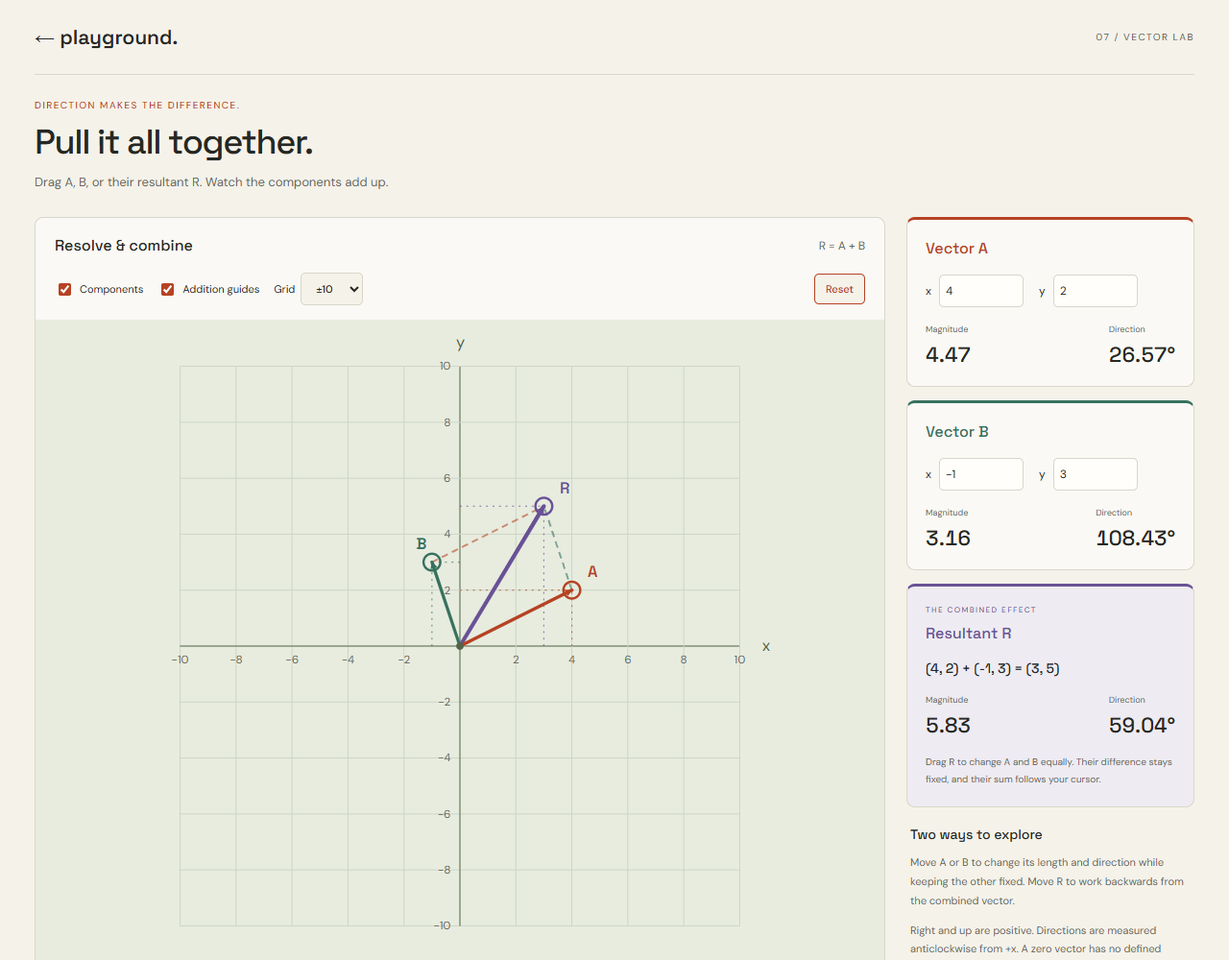
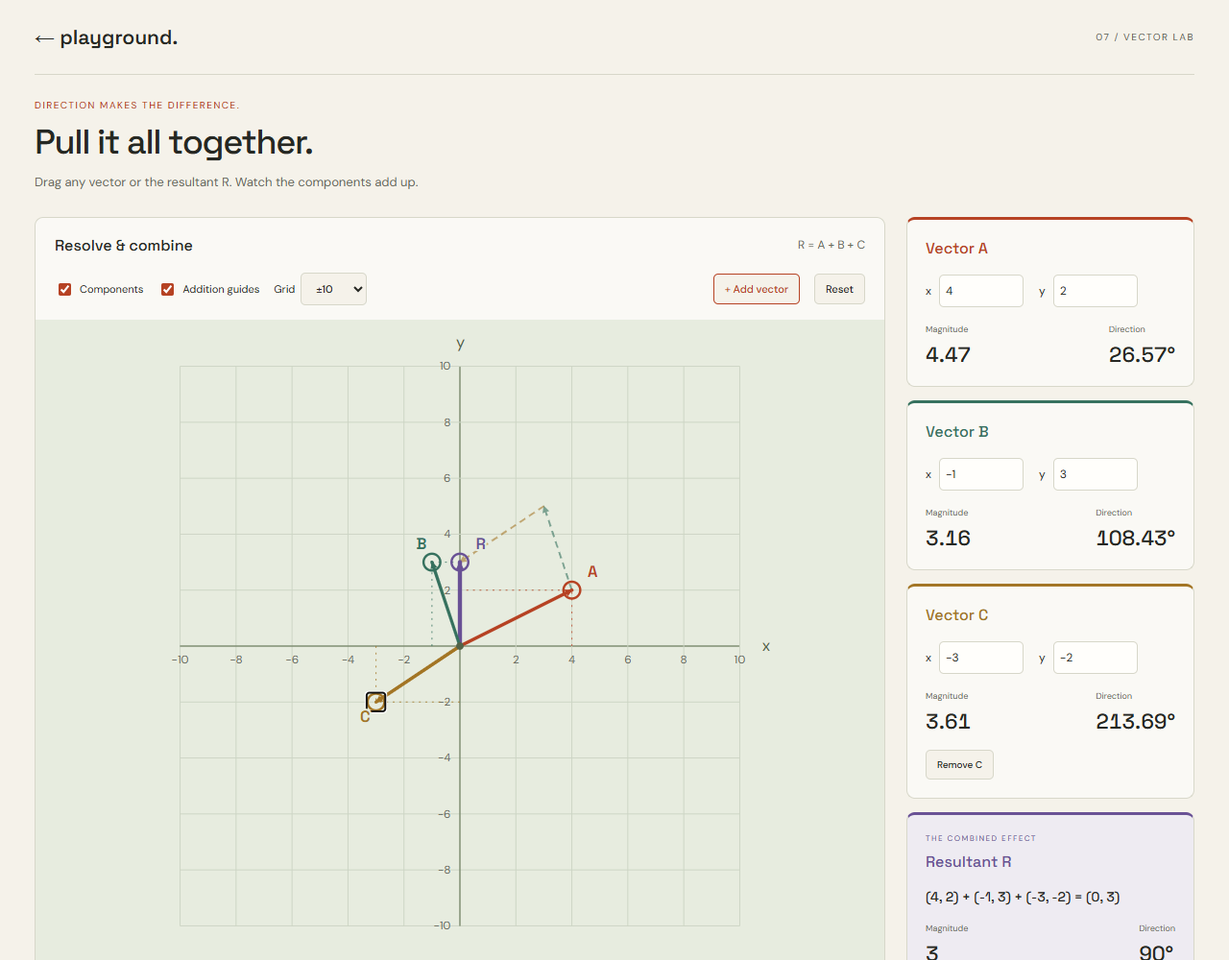
Allow adding vectors and update the resultant across all inputs

diff --git a/vectors/simulation.js b/vectors/simulation.js
@@ -1,25 +1,42 @@
 (()=>{
  'use strict';
- const $=id=>document.getElementById(id),svg=$('workspace'),NS='http://www.w3.org/2000/svg',colours={a:'#b64223',b:'#36715e',r:'#695195'};
- const state={a:{x:4,y:2},b:{x:-1,y:3},range:10};let drag=null;
- const resultant=()=>({x:state.a.x+state.b.x,y:state.a.y+state.b.y}),screen=v=>({x:350+300*v.x/state.range,y:350-300*v.y/state.range});
+ const $=id=>document.getElementById(id),svg=$('workspace'),NS='http://www.w3.org/2000/svg',colours={a:'#b64223',b:'#36715e',r:'#695195',c:'#a37525',d:'#397c91',e:'#b04f72',f:'#66792c',g:'#8b633f',h:'#4a6f9e'};
+ const state={a:{x:4,y:2},b:{x:-1,y:3},range:10,ids:['a','b']};let drag=null;
+ const resultant=()=>state.ids.reduce((sum,id)=>({x:sum.x+state[id].x,y:sum.y+state[id].y}),{x:0,y:0}),screen=v=>({x:350+300*v.x/state.range,y:350-300*v.y/state.range});
  const number=n=>Math.abs(n)<1e-9?'0':Number(n.toFixed(2)).toString(),clamp=(n,min,max)=>Math.min(max,Math.max(min,n));
  function node(tag,attrs={},text){const el=document.createElementNS(NS,tag);for(const [key,value]of Object.entries(attrs))el.setAttribute(key,value);if(text!==undefined)el.textContent=text;return el;}
  function line(parent,from,to,colour){const a=screen(from),b=screen(to);parent.append(node('line',{x1:a.x,y1:a.y,x2:b.x,y2:b.y,stroke:colour}));}
  function grid(){const g=$('grid');g.replaceChildren();const step=state.range/5;for(let n=-5;n<=5;n++){const v=n*step,p=screen({x:v,y:v});g.append(node('line',{x1:p.x,x2:p.x,y1:50,y2:650,stroke:n?'#cdd5c5':'#7c8c70','stroke-width':n?1:1.5}),node('line',{x1:50,x2:650,y1:p.y,y2:p.y,stroke:n?'#cdd5c5':'#7c8c70','stroke-width':n?1:1.5}));if(n)g.append(node('text',{x:p.x,y:369,'text-anchor':'middle',fill:'#686a60','font-size':12},number(v)),node('text',{x:340,y:p.y+4,'text-anchor':'end',fill:'#686a60','font-size':12},number(v)));}g.append(node('text',{x:674,y:355,fill:'#526347','font-size':17},'x'),node('text',{x:346,y:30,fill:'#526347','font-size':17},'y'));}
- function setVector(id,target){const limit=state.range*.94,r=resultant();for(const axis of ['x','y']){if(id==='r'){const delta=clamp(target[axis]-r[axis],Math.max(-limit-r[axis],2*(-limit-state.a[axis]),2*(-limit-state.b[axis])),Math.min(limit-r[axis],2*(limit-state.a[axis]),2*(limit-state.b[axis])));state.a[axis]+=delta/2;state.b[axis]+=delta/2;}else{const other=state[id==='a'?'b':'a'][axis];state[id][axis]=clamp(target[axis],Math.max(-limit,-limit-other),Math.min(limit,limit-other));}}render();}
- function render(){const r=resultant();for(const [id,v]of Object.entries({a:state.a,b:state.b,r})){const group=$('arrow-'+id),p=screen(v),mag=Math.hypot(v.x,v.y),angle=mag<1e-9?null:(Math.atan2(v.y,v.x)*180/Math.PI+360)%360;for(const el of group.querySelectorAll('line')){el.setAttribute('x1',350);el.setAttribute('y1',350);el.setAttribute('x2',p.x);el.setAttribute('y2',p.y);}group.querySelector('.shaft').style.display=mag<1e-9?'none':'';const handle=$('handle-'+id);handle.setAttribute('cx',p.x);handle.setAttribute('cy',p.y);handle.setAttribute('aria-label',`${id.toUpperCase()} vector: x ${number(v.x)}, y ${number(v.y)}. Use arrow keys to move.`);const label=group.querySelector('.label');label.setAttribute('x',p.x+(v.x<0?-17:17));label.setAttribute('y',p.y+(v.y<0?21:-14));$(''+id+'-magnitude').textContent=number(mag);$(id+'-angle').textContent=angle===null?'Undefined':number(angle)+'°';if(id!=='r')for(const axis of ['x','y']){const input=$(id+'-'+axis);if(document.activeElement!==input)input.value=number(v[axis]);input.min=-state.range*.94;input.max=state.range*.94;}}
-  $('sum').textContent=`(${number(state.a.x)}, ${number(state.a.y)}) + (${number(state.b.x)}, ${number(state.b.y)}) = (${number(r.x)}, ${number(r.y)})`;
-  const guides=$('addition-guides');guides.replaceChildren();guides.style.display=$('guides').checked?'':'none';line(guides,state.a,r,colours.b);line(guides,state.b,r,colours.a);
-  const components=$('component-lines');components.replaceChildren();components.style.display=$('components').checked?'':'none';for(const [id,v]of Object.entries({a:state.a,b:state.b,r})){line(components,{x:v.x,y:0},v,colours[id]);line(components,{x:0,y:v.y},v,colours[id]);}
+ function setVector(id,target){const limit=state.range*.94,r=resultant(),count=state.ids.length;for(const axis of ['x','y']){if(id==='r'){const delta=clamp(target[axis]-r[axis],Math.max(-limit-r[axis],...state.ids.map(key=>count*(-limit-state[key][axis]))),Math.min(limit-r[axis],...state.ids.map(key=>count*(limit-state[key][axis]))));for(const key of state.ids)state[key][axis]+=delta/count;}else{const other=r[axis]-state[id][axis];state[id][axis]=clamp(target[axis],Math.max(-limit,-limit-other),Math.min(limit,limit-other));}}render();}
+ function render(){const r=resultant();for(const [id,v]of [...state.ids.map(id=>[id,state[id]]),['r',r]]){const group=$('arrow-'+id),p=screen(v),mag=Math.hypot(v.x,v.y),angle=mag<1e-9?null:(Math.atan2(v.y,v.x)*180/Math.PI+360)%360;for(const el of group.querySelectorAll('line')){el.setAttribute('x1',350);el.setAttribute('y1',350);el.setAttribute('x2',p.x);el.setAttribute('y2',p.y);}group.querySelector('.shaft').style.display=mag<1e-9?'none':'';const handle=$('handle-'+id);handle.setAttribute('cx',p.x);handle.setAttribute('cy',p.y);handle.setAttribute('aria-label',`${id.toUpperCase()} vector: x ${number(v.x)}, y ${number(v.y)}. Use arrow keys to move.`);const label=group.querySelector('.label');label.setAttribute('x',p.x+(v.x<0?-17:17));label.setAttribute('y',p.y+(v.y<0?21:-14));$(''+id+'-magnitude').textContent=number(mag);$(id+'-angle').textContent=angle===null?'Undefined':number(angle)+'°';if(id!=='r')for(const axis of ['x','y']){const input=$(id+'-'+axis);if(document.activeElement!==input)input.value=number(v[axis]);input.min=-state.range*.94;input.max=state.range*.94;}}
+  $('sum').textContent=state.ids.map(id=>'('+number(state[id].x)+', '+number(state[id].y)+')').join(' + ')+' = ('+number(r.x)+', '+number(r.y)+')';
+  $('vector-equation').textContent='R = '+state.ids.map(id=>id.toUpperCase()).join(' + ');$('add-vector').disabled=state.ids.length>=8;
+  const guides=$('addition-guides');guides.replaceChildren();guides.style.display=$('guides').checked?'':'none';if(state.ids.length===2){line(guides,state.a,r,colours.b);line(guides,state.b,r,colours.a);}else{let tail={x:0,y:0};for(const id of state.ids){const tip={x:tail.x+state[id].x,y:tail.y+state[id].y};const from=screen(tail),to=screen(tip);guides.append(node('line',{x1:from.x,y1:from.y,x2:to.x,y2:to.y,stroke:colours[id],'marker-end':'url(#head-'+id+')'}));tail=tip;}}
+  $('addition-note').textContent=state.ids.length===2?'Dashed copies of A and B complete the parallelogram. Dotted lines resolve each vector into horizontal and vertical components.':'Dashed arrows add the vectors head-to-tail. Dotted lines resolve each vector into horizontal and vertical components.';
+  $('inverse-note').textContent='Drag R to share its change equally between all '+state.ids.length+' vectors. Their pairwise differences stay fixed.';
+  const components=$('component-lines');components.replaceChildren();components.style.display=$('components').checked?'':'none';for(const [id,v]of [...state.ids.map(id=>[id,state[id]]),['r',r]]){line(components,{x:v.x,y:0},v,colours[id]);line(components,{x:0,y:v.y},v,colours[id]);}
  }
  function point(e){const p=new DOMPoint(e.clientX,e.clientY).matrixTransform(svg.getScreenCTM().inverse());return {x:(p.x-350)*state.range/300,y:(350-p.y)*state.range/300};}
  function endDrag(e){if(!drag||e&&e.pointerId!==drag.pointerId)return;const pointerId=drag.pointerId;$('arrow-'+drag.id).classList.remove('dragging');drag=null;if(svg.hasPointerCapture(pointerId))svg.releasePointerCapture(pointerId);}
- for(const id of ['a','b','r']){$('arrow-'+id).addEventListener('pointerdown',e=>{if(e.button!==0||drag)return;e.preventDefault();const p=point(e),v=id==='r'?resultant():state[id];drag={id,pointerId:e.pointerId,offset:{x:v.x-p.x,y:v.y-p.y}};$('arrow-'+id).classList.add('dragging');svg.setPointerCapture(e.pointerId);$('handle-'+id).focus({preventScroll:true});});$('handle-'+id).addEventListener('keydown',e=>{const directions={ArrowRight:[1,0],ArrowLeft:[-1,0],ArrowUp:[0,1],ArrowDown:[0,-1]};if(!directions[e.key])return;e.preventDefault();const v=id==='r'?resultant():state[id],d=directions[e.key],step=e.shiftKey?1:.25;setVector(id,{x:v.x+d[0]*step,y:v.y+d[1]*step});});}
+ function bindVector(id){$('arrow-'+id).addEventListener('pointerdown',e=>{if(e.button!==0||drag)return;e.preventDefault();const p=point(e),v=id==='r'?resultant():state[id];drag={id,pointerId:e.pointerId,offset:{x:v.x-p.x,y:v.y-p.y}};$('arrow-'+id).classList.add('dragging');svg.setPointerCapture(e.pointerId);$('handle-'+id).focus({preventScroll:true});});$('handle-'+id).addEventListener('keydown',e=>{const directions={ArrowRight:[1,0],ArrowLeft:[-1,0],ArrowUp:[0,1],ArrowDown:[0,-1]};if(!directions[e.key])return;e.preventDefault();const v=id==='r'?resultant():state[id],d=directions[e.key],step=e.shiftKey?1:.25;setVector(id,{x:v.x+d[0]*step,y:v.y+d[1]*step});});}
  svg.addEventListener('pointermove',e=>{if(!drag||e.pointerId!==drag.pointerId)return;const p=point(e);setVector(drag.id,{x:p.x+drag.offset.x,y:p.y+drag.offset.y});});svg.addEventListener('pointerup',endDrag);svg.addEventListener('pointercancel',endDrag);svg.addEventListener('lostpointercapture',endDrag);
- for(const id of ['a','b'])for(const axis of ['x','y'])$(id+'-'+axis).addEventListener('change',e=>{const value=e.target.valueAsNumber;if(Number.isFinite(value))setVector(id,{...state[id],[axis]:value});e.target.value=number(state[id][axis]);});
- $('range').addEventListener('change',e=>{endDrag();const requested=Number(e.target.value),r=resultant(),max=Math.max(...['a','b'].flatMap(id=>[Math.abs(state[id].x),Math.abs(state[id].y)]),Math.abs(r.x),Math.abs(r.y));state.range=[10,20,50].find(range=>range>=requested&&max<=range*.94)||50;e.target.value=state.range;grid();render();});
+ function bindInputs(id){for(const axis of ['x','y'])$(id+'-'+axis).addEventListener('change',e=>{const value=e.target.valueAsNumber;if(Number.isFinite(value))setVector(id,{...state[id],[axis]:value});e.target.value=number(state[id][axis]);});}
+ function fitRange(requested){const r=resultant(),max=Math.max(...state.ids.flatMap(id=>[Math.abs(state[id].x),Math.abs(state[id].y)]),Math.abs(r.x),Math.abs(r.y)),required=Math.max(requested,max/.94);state.range=[10,20,50].find(range=>range>=required)||Math.ceil(required/10)*10;const select=$('range');if(![...select.options].some(option=>Number(option.value)===state.range)){const option=document.createElement('option');option.value=state.range;option.textContent='±'+state.range;select.append(option);}select.value=state.range;grid();}
+ $('range').addEventListener('change',e=>{endDrag();fitRange(Number(e.target.value));render();});
  for(const id of ['components','guides'])$(id).addEventListener('change',render);
- $('reset').addEventListener('click',()=>{endDrag();state.a={x:4,y:2};state.b={x:-1,y:3};state.range=10;$('range').value='10';grid();render();});
+ $('reset').addEventListener('click',()=>{endDrag();for(const id of [...state.ids])if(id!=='a'&&id!=='b')removeVector(id);state.a={x:4,y:2};state.b={x:-1,y:3};state.range=10;$('range').value='10';grid();render();});
+ function addVector(){if(state.ids.length>=8)return;endDrag();const id=[...'cdefgh'].find(id=>!state.ids.includes(id)),label=id.toUpperCase();state.ids.push(id);state[id]={x:0,y:0};
+  const marker=$('head-a').cloneNode(true);marker.id='head-'+id;marker.querySelector('path').setAttribute('fill',colours[id]);svg.querySelector('defs').append(marker);
+  const arrow=$('arrow-a').cloneNode(true);arrow.id='arrow-'+id;arrow.className.baseVal='vector '+id;arrow.style.setProperty('--vector',colours[id]);arrow.querySelector('.shaft').setAttribute('marker-end','url(#head-'+id+')');arrow.querySelector('.handle').id='handle-'+id;arrow.querySelector('.label').textContent=label;svg.insertBefore(arrow,$('arrow-a'));
+  const card=document.querySelector('.vector-card.a').cloneNode(true);card.className='vector-card '+id;card.id='card-'+id;card.style.setProperty('--vector',colours[id]);card.querySelector('h2').textContent='Vector '+label;for(const el of card.querySelectorAll('[id]'))el.id=el.id.replace(/^a-/,id+'-');
+  const remove=document.createElement('button');remove.type='button';remove.className='remove-vector';remove.textContent='Remove '+label;remove.addEventListener('click',()=>removeVector(id));card.append(remove);document.querySelector('.resultant').before(card);
+  const legend=document.createElement('span');legend.id='legend-'+id;legend.textContent='● '+label;legend.style.color=colours[id];$('vector-legend').querySelector('.r').before(legend);bindVector(id);bindInputs(id);
+  const defaults={c:{x:-3,y:-2},d:{x:2,y:-3},e:{x:3,y:-1},f:{x:-2,y:1},g:{x:1,y:-3},h:{x:-1,y:-2}};setVector(id,defaults[id]);$('handle-'+id).focus({preventScroll:true});
+ }
+ function removeVector(id){endDrag();if(id==='a'||id==='b'||!state.ids.includes(id))return;const focused=document.activeElement?.closest('#card-'+id)||document.activeElement===$('handle-'+id);state.ids=state.ids.filter(key=>key!==id);delete state[id];for(const prefix of ['arrow-','head-','card-','legend-'])$(prefix+id).remove();
+  fitRange(state.range);render();if(focused)$('add-vector').focus({preventScroll:true});
+ }
+ $('add-vector').addEventListener('click',addVector);
+ for(const id of ['a','b','r'])bindVector(id);for(const id of ['a','b'])bindInputs(id);
  grid();render();window.vectorLab={state,resultant,screen};
 })();

diff --git a/vectors/index.html b/vectors/index.html
@@ -1,20 +1,20 @@
 <!doctype html>
-<html lang="en"><head><meta charset="utf-8"><meta name="viewport" content="width=device-width,initial-scale=1"><title>Vector lab · Playground</title><meta name="description" content="Drag two vectors or their resultant and explore vector addition and resolution in real time."><link rel="icon" href="../favicon.svg"><link rel="stylesheet" href="style.css"></head>
+<html lang="en"><head><meta charset="utf-8"><meta name="viewport" content="width=device-width,initial-scale=1"><title>Vector lab · Playground</title><meta name="description" content="Add and drag vectors or their resultant and explore vector addition and resolution in real time."><link rel="icon" href="../favicon.svg"><link rel="stylesheet" href="style.css?v=2"></head>
 <body><main><header><a href="../">← playground.</a><span>07 / VECTOR LAB</span></header>
-<section class="heading"><p class="eyebrow">DIRECTION MAKES THE DIFFERENCE.</p><h1>Pull it all together.</h1><p>Drag A, B, or their resultant R. Watch the components add up.</p></section>
-<div class="workspace"><section class="board"><div class="panel-heading"><h2>Resolve &amp; combine</h2><span>R = A + B</span></div>
-<div class="toolbar"><label><input id="components" type="checkbox" checked> Components</label><label><input id="guides" type="checkbox" checked> Addition guides</label><label>Grid <select id="range" aria-label="Grid range"><option value="10">±10</option><option value="20">±20</option><option value="50">±50</option></select></label><button id="reset" type="button">Reset</button></div>
-<svg id="workspace" viewBox="0 0 700 700" role="group" aria-labelledby="chart-title chart-description"><title id="chart-title">Interactive vector workspace</title><desc id="chart-description">Two vectors A and B share an origin. R is their sum. Drag an arrow or its endpoint. Focus an endpoint and use arrow keys, or edit components beside the graph. Dragging R changes A and B equally.</desc>
+<section class="heading"><p class="eyebrow">DIRECTION MAKES THE DIFFERENCE.</p><h1>Pull it all together.</h1><p>Drag any vector or the resultant R. Watch the components add up.</p></section>
+<div class="workspace"><section class="board"><div class="panel-heading"><h2>Resolve &amp; combine</h2><span id="vector-equation">R = A + B</span></div>
+<div class="toolbar"><label><input id="components" type="checkbox" checked> Components</label><label><input id="guides" type="checkbox" checked> Addition guides</label><label>Grid <select id="range" aria-label="Grid range"><option value="10">±10</option><option value="20">±20</option><option value="50">±50</option></select></label><button id="add-vector" type="button" title="Add up to eight vectors">+ Add vector</button><button id="reset" type="button">Reset</button></div>
+<svg id="workspace" viewBox="0 0 700 700" role="group" aria-labelledby="chart-title chart-description"><title id="chart-title">Interactive vector workspace</title><desc id="chart-description">All vectors share an origin. R is their sum. Add up to eight vectors. Drag an arrow or its endpoint. Focus an endpoint and use arrow keys, or edit components beside the graph. Dragging R changes all vectors equally.</desc>
 <defs><marker id="head-a" viewBox="0 0 12 12" refX="10" refY="6" markerWidth="9" markerHeight="9" orient="auto-start-reverse" markerUnits="userSpaceOnUse"><path d="M1 1L11 6L1 11Z" fill="#b64223"/></marker><marker id="head-b" viewBox="0 0 12 12" refX="10" refY="6" markerWidth="9" markerHeight="9" orient="auto-start-reverse" markerUnits="userSpaceOnUse"><path d="M1 1L11 6L1 11Z" fill="#36715e"/></marker><marker id="head-r" viewBox="0 0 12 12" refX="10" refY="6" markerWidth="11" markerHeight="11" orient="auto-start-reverse" markerUnits="userSpaceOnUse"><path d="M1 1L11 6L1 11Z" fill="#695195"/></marker></defs>
-<g id="grid"></g><g id="addition-guides" pointer-events="none"></g><g id="component-lines" pointer-events="none"></g>
+<defs><clipPath id="grid-clip"><rect x="50" y="50" width="600" height="600"/></clipPath></defs><g id="grid"></g><g id="addition-guides" pointer-events="none" clip-path="url(#grid-clip)"></g><g id="component-lines" pointer-events="none"></g>
 <g id="arrow-r" class="vector r"><line class="shaft" marker-end="url(#head-r)"/><line class="hit"/><circle id="handle-r" class="handle" r="9" tabindex="0" role="button"/><text class="label" pointer-events="none">R</text></g>
 <g id="arrow-a" class="vector a"><line class="shaft" marker-end="url(#head-a)"/><line class="hit"/><circle id="handle-a" class="handle" r="9" tabindex="0" role="button"/><text class="label" pointer-events="none">A</text></g>
 <g id="arrow-b" class="vector b"><line class="shaft" marker-end="url(#head-b)"/><line class="hit"/><circle id="handle-b" class="handle" r="9" tabindex="0" role="button"/><text class="label" pointer-events="none">B</text></g>
 <circle cx="350" cy="350" r="4" fill="#526347" pointer-events="none"/></svg>
-<div class="legend"><span class="a">● A</span><span class="b">● B</span><span class="r">● R · resultant</span><span>Drag an arrow or endpoint</span></div><p class="board-note">Dashed copies of A and B complete the parallelogram. Dotted lines resolve each vector into horizontal and vertical components.</p></section>
+<div class="legend" id="vector-legend"><span class="a">● A</span><span class="b">● B</span><span class="r">● R · resultant</span><span>Drag an arrow or endpoint</span></div><p class="board-note" id="addition-note">Dashed copies of A and B complete the parallelogram. Dotted lines resolve each vector into horizontal and vertical components.</p></section>
 <aside><section class="vector-card a"><h2>Vector A</h2><div class="inputs"><label>x <input id="a-x" type="number" step="0.25" value="4"></label><label>y <input id="a-y" type="number" step="0.25" value="2"></label></div><div class="metrics"><span>Magnitude <strong id="a-magnitude"></strong></span><span>Direction <strong id="a-angle"></strong></span></div></section>
 <section class="vector-card b"><h2>Vector B</h2><div class="inputs"><label>x <input id="b-x" type="number" step="0.25" value="-1"></label><label>y <input id="b-y" type="number" step="0.25" value="3"></label></div><div class="metrics"><span>Magnitude <strong id="b-magnitude"></strong></span><span>Direction <strong id="b-angle"></strong></span></div></section>
-<section class="vector-card r resultant"><p class="eyebrow">THE COMBINED EFFECT</p><h2>Resultant R</h2><p class="equation" id="sum"></p><div class="metrics"><span>Magnitude <strong id="r-magnitude"></strong></span><span>Direction <strong id="r-angle"></strong></span></div><p class="small">Drag R to change A and B equally. Their difference stays fixed, and their sum follows your cursor.</p></section>
-<section class="reading"><h2>Two ways to explore</h2><p>Move A or B to change its length and direction while keeping the other fixed. Move R to work backwards from the combined vector.</p><p>Right and up are positive. Directions are measured anticlockwise from +x. A zero vector has no defined direction.</p><p>Values use arbitrary units. Choose a larger grid for longer vectors. Focus an endpoint and use arrow keys; hold Shift for larger steps.</p></section></aside></div>
-<footer><p><strong>Components add independently.</strong> Rₓ = Aₓ + Bₓ and Rᵧ = Aᵧ + Bᵧ. The resultant’s magnitude is √(Rₓ² + Rᵧ²).</p><p>Dragging R shares its change equally: A′ = A + ΔR/2 and B′ = B + ΔR/2. This is one of many pairs of vectors with the same resultant. All endpoints stay inside the selected grid.</p></footer>
-</main><script src="simulation.js"></script></body></html>
+<section class="vector-card r resultant"><p class="eyebrow">THE COMBINED EFFECT</p><h2>Resultant R</h2><p class="equation" id="sum"></p><div class="metrics"><span>Magnitude <strong id="r-magnitude"></strong></span><span>Direction <strong id="r-angle"></strong></span></div><p class="small" id="inverse-note">Drag R to change A and B equally. Their difference stays fixed, and their sum follows your cursor.</p></section>
+<section class="reading"><h2>Two ways to explore</h2><p>Move any input vector to change its length and direction while keeping the others fixed. Move R to work backwards from the combined vector.</p><p>Right and up are positive. Directions are measured anticlockwise from +x. A zero vector has no defined direction.</p><p>Values use arbitrary units. Choose a larger grid for longer vectors. Focus an endpoint and use arrow keys; hold Shift for larger steps.</p></section></aside></div>
+<footer><p><strong>Components add independently.</strong> Add all horizontal components to find Rₓ and all vertical components to find Rᵧ. The resultant’s magnitude is √(Rₓ² + Rᵧ²).</p><p>With n vectors, dragging R shares its change equally: each vector changes by ΔR/n. Many combinations can give the same resultant. All endpoints stay inside the selected grid. Add up to eight vectors; remove extras from their cards.</p></footer>
+</main><script src="simulation.js?v=2"></script></body></html>

diff --git a/vectors/style.css b/vectors/style.css
@@ -2,3 +2,5 @@
 :root{color-scheme:light;--paper:#f5f2ea;--ink:#262823;--muted:#686a60;--line:#d7d7c9;--orange:#b64223}*{box-sizing:border-box}body{margin:0;background:var(--paper);color:var(--ink);font-family:'DM Sans',sans-serif}main{max-width:1360px;margin:auto;padding:0 36px}header{height:78px;border-bottom:1px solid var(--line);display:flex;justify-content:space-between;align-items:center;gap:12px}header a{font:600 21px 'Space Grotesk',sans-serif;color:inherit;text-decoration:none}header>span,.eyebrow{font-size:10px;letter-spacing:1.5px;color:var(--muted)}.heading{padding:25px 0}.eyebrow{color:var(--orange);margin:0 0 9px}h1{font:500 36px 'Space Grotesk',sans-serif;letter-spacing:-1.3px;margin:0 0 8px}.heading>p:last-child{font-size:13px;color:var(--muted);margin:0;line-height:1.7}.workspace{display:grid;grid-template-columns:minmax(0,1fr) 300px;gap:22px;align-items:start}h2{font:500 16px 'Space Grotesk',sans-serif;margin:0}.board,.vector-card{background:#faf9f5;border:1px solid var(--line);border-radius:9px;overflow:hidden}.panel-heading{display:flex;justify-content:space-between;padding:18px 20px;align-items:center}.panel-heading span{font-size:12px;color:var(--muted)}.toolbar{display:flex;gap:15px;align-items:center;flex-wrap:wrap;padding:0 20px 15px;font-size:11px}.toolbar label{display:flex;align-items:center;gap:6px}input[type=checkbox]{accent-color:var(--orange)}button,select{font:500 11px 'DM Sans',sans-serif;padding:8px 11px;border:1px solid var(--line);border-radius:5px;background:var(--paper);color:var(--ink)}button{cursor:pointer;margin-left:auto}button:hover{border-color:var(--orange);color:var(--orange)}#workspace{display:block;width:100%;max-height:680px;background:#e7ecdf;font-family:'DM Sans',sans-serif;touch-action:none;user-select:none}.a{--vector:#b64223}.b{--vector:#36715e}.r{--vector:#695195}.vector{cursor:grab}.vector.dragging{cursor:grabbing}.shaft{stroke:var(--vector);stroke-width:3.5;stroke-linecap:round}.r .shaft{stroke-width:4.5}.hit{stroke:transparent;stroke-width:22;pointer-events:stroke}.handle{fill:var(--paper);stroke:var(--vector);stroke-width:2.5;cursor:grab}.handle:focus-visible{outline:none;stroke-width:5}.label{fill:var(--vector);font:600 17px 'Space Grotesk',sans-serif;paint-order:stroke;stroke:#e7ecdf;stroke-width:4px;stroke-linejoin:round}#component-lines line{stroke-width:1.2;stroke-dasharray:2 5;opacity:.7}#addition-guides line{stroke-width:2;stroke-dasharray:7 5;opacity:.6}.legend{display:flex;align-items:center;gap:20px;padding:15px 20px;font-size:11px;flex-wrap:wrap}.legend>.a,.legend>.b,.legend>.r{color:var(--vector)}.legend>span:last-child{margin-left:auto;font-size:10px;color:var(--muted)}.board-note{margin:0;padding:0 20px 17px;font-size:10px;color:var(--muted);line-height:1.7}.vector-card{padding:19px;margin-bottom:14px;border-top:3px solid var(--vector)}.vector-card h2{color:var(--vector)}.inputs{display:flex;gap:16px;margin:17px 0}.inputs label{font-size:12px;display:flex;gap:8px;align-items:center}.inputs input{width:88px;padding:8px 6px;font:inherit;color:var(--ink);border:1px solid var(--line);border-radius:5px;background:#fffefb;min-width:0}.metrics{display:flex;justify-content:space-between;gap:10px}.metrics span{font-size:9px;color:var(--muted)}.metrics strong{display:block;font:500 22px 'Space Grotesk',sans-serif;color:var(--ink);margin-top:6px;font-variant-numeric:tabular-nums}.resultant{background:#eeebf2}.resultant .eyebrow{font-size:8px;color:var(--vector)}.equation{font:500 14px 'Space Grotesk',sans-serif;line-height:1.8;overflow-wrap:anywhere}.small{font-size:10px;line-height:1.8;color:var(--muted);margin:16px 0 0}.reading{padding:5px 4px}.reading h2{font-size:14px}.reading p{font-size:11px;line-height:1.8;color:var(--muted)}footer{border-top:1px solid var(--line);margin-top:24px;padding:12px 0 24px;display:grid;grid-template-columns:1fr 1fr;gap:28px;font-size:10px;line-height:1.8;color:var(--muted)}footer strong{color:var(--ink)}a:focus-visible,input:focus-visible,select:focus-visible,button:focus-visible{outline:3px solid var(--orange);outline-offset:3px}@media(max-width:900px){main{padding:0 22px}.workspace{grid-template-columns:1fr}aside{display:grid;grid-template-columns:1fr 1fr;gap:14px}.vector-card{margin:0}.inputs input{width:78px}.reading{padding:10px}.toolbar button{margin-left:0}}@media(max-width:560px){main{padding:0 14px}header{height:65px}header>span{font-size:8px;letter-spacing:1px}h1{font-size:30px}.heading{padding:22px 0}.panel-heading{padding:16px 12px}.toolbar{padding:0 12px 14px;gap:10px}.legend{gap:12px;padding:14px 12px}.legend>span:last-child{width:100%;margin:0}.board-note{padding:0 12px 14px}aside{display:block}.vector-card{margin-bottom:14px}.inputs input{width:100px}.reading{padding:8px 3px}footer{grid-template-columns:1fr;gap:0}}
 
 .handle{fill:transparent}@media(max-width:560px){#grid text{font-size:20px}.vector .label{font-size:24px}.vector .hit{stroke-width:36px}}
+
+.toolbar #add-vector{margin-left:auto}.toolbar #reset{margin-left:0}button:disabled{opacity:.45;cursor:default}.remove-vector{display:block;margin:16px 0 0;font-size:10px}.panel-heading>span{max-width:65%;text-align:right;line-height:1.7;overflow-wrap:anywhere}@media(max-width:560px){.toolbar #add-vector{margin-left:0}}

diff --git a/index.html b/index.html
@@ -40,8 +40,8 @@
           <div class="project-info"><div class="tags"><span>ASTRONOMY</span><span>INTERACTIVE DIAGRAM</span></div><h3 id="stellar-title">A map of the stars.</h3><p>Explore named stars and the ESO spectral library on an H–R diagram. Discover how temperature, luminosity, and stellar size fit together.</p><span class="project-link">Explore the stellar atlas <span aria-hidden="true">↗</span></span></div>
         </a>
         <a class="project vectors" href="./vectors/" aria-labelledby="vectors-title">
-          <div class="preview"><img src="./assets/vectors.png" alt="Two draggable vectors and their resultant on a coordinate grid" width="1280" height="1000"><span class="preview-label">07 / VECTOR LAB</span><span class="open" aria-hidden="true">↗</span></div>
-          <div class="project-info"><div class="tags"><span>PHYSICS</span><span>INTERACTIVE WORKSPACE</span></div><h3 id="vectors-title">Pull it all together.</h3><p>Drag two vectors or their resultant. Resolve their components and watch the combined effect change in real time.</p><span class="project-link">Explore the vectors <span aria-hidden="true">↗</span></span></div>
+          <div class="preview"><img src="./assets/vectors.png" alt="Draggable vectors and their resultant on a coordinate grid" width="1280" height="1000"><span class="preview-label">07 / VECTOR LAB</span><span class="open" aria-hidden="true">↗</span></div>
+          <div class="project-info"><div class="tags"><span>PHYSICS</span><span>INTERACTIVE WORKSPACE</span></div><h3 id="vectors-title">Pull it all together.</h3><p>Add and drag vectors or their resultant. Resolve their components and watch the combined effect change in real time.</p><span class="project-link">Explore the vectors <span aria-hidden="true">↗</span></span></div>
         </a>
       </div>
     </section>

diff --git a/README.md b/README.md
@@ -4,7 +4,7 @@ A small, static home for experiments and projects. Includes the electron diffrac
 
 ## Vector Lab
 
-Open `vectors/`. Drag either vector A or B to change it while holding the other fixed. Drag resultant R to change A and B by half of R's change each, preserving their difference and enforcing R = A + B. All arrows share a common origin. Component projections and a parallelogram show resolution and addition; both can be toggled. Numeric x/y inputs and focusable arrow endpoints provide keyboard access. Magnitudes and anticlockwise directions update live; a zero vector has undefined direction. Values use arbitrary units and endpoints stay within the selected grid. Reset returns to A = (4, 2), B = (−1, 3), and a ±10 grid. `tests/vectors.cjs` checks dragging, inverse adjustment, components, keyboard and mobile touch behavior.
+Open `vectors/`. Start with A and B, then use Add vector to include up to eight independently draggable vectors (A to H). Each extra vector has component controls and a Remove button. Drag an input vector while holding the others fixed. Drag resultant R to distribute its change equally across all n vectors, preserving pairwise differences and enforcing R as their sum. All arrows share a common origin. Component projections show resolution; addition guides show a parallelogram for two vectors or a head-to-tail chain for more. Both can be toggled. Numeric x/y inputs and focusable arrow endpoints provide keyboard access. Magnitudes and anticlockwise directions update live; a zero vector has undefined direction. Values use arbitrary units and endpoints stay within the selected grid. Reset removes extra vectors; removing a cancelling vector expands the grid if needed without altering the others. Reset returns to A = (4, 2), B = (−1, 3), and a ±10 grid. `tests/vectors.cjs` checks dragging, inverse adjustment, components, keyboard and mobile touch behavior.
 
 ## Stellar atlas
 
